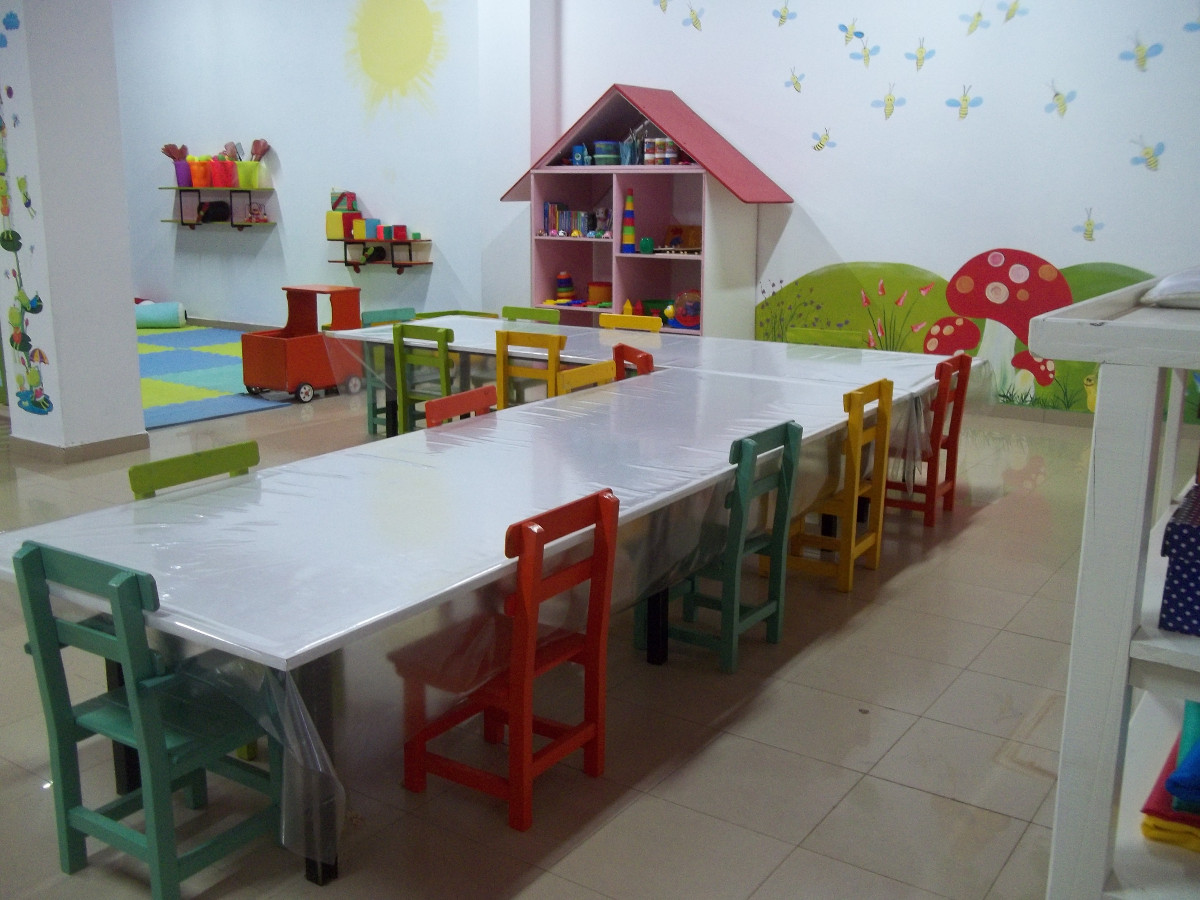
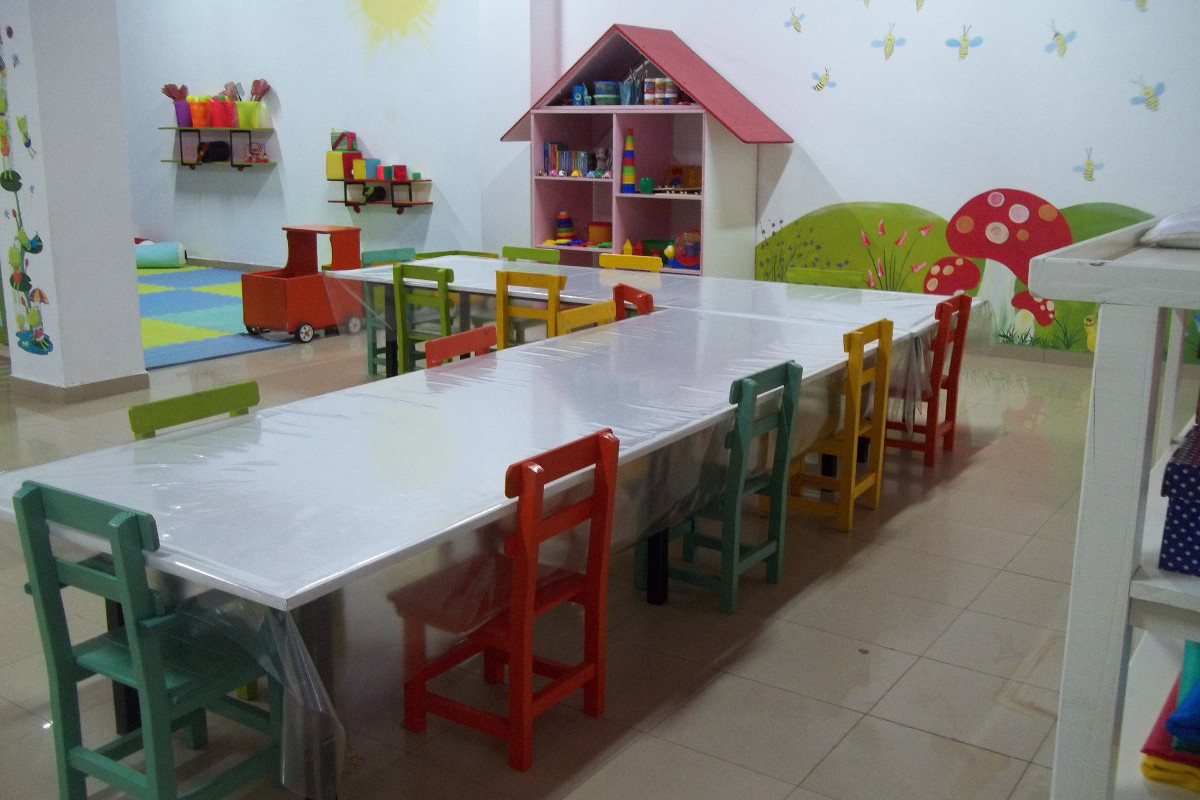
Editamos el alto de las imagenes

diff --git a/style.css b/style.css
@@ -94,7 +94,7 @@ footer[role="contentinfo"] p span{ color: #e74c3c; }
 
 .flexslider { background: #f8c6c1; margin-bottom: 40px; }
 .flexslider .slides { zoom: 1; }
-.flexslider .slides li img { height: 600px; }
+/*.flexslider .slides li img { height: 600px; }*/
 .flexslider .flex-control-nav{
 	position: absolute;
 	text-align: center;
